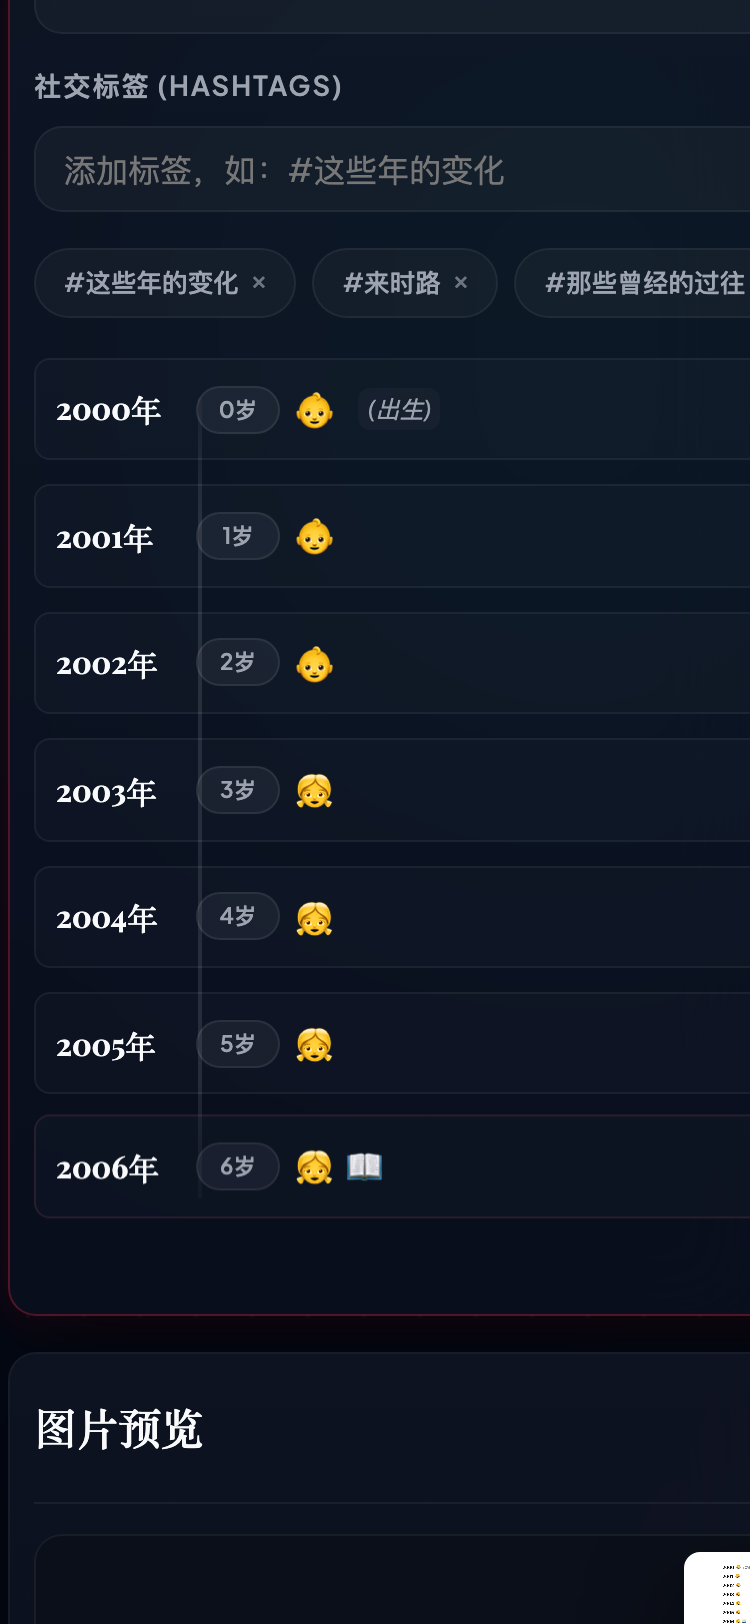
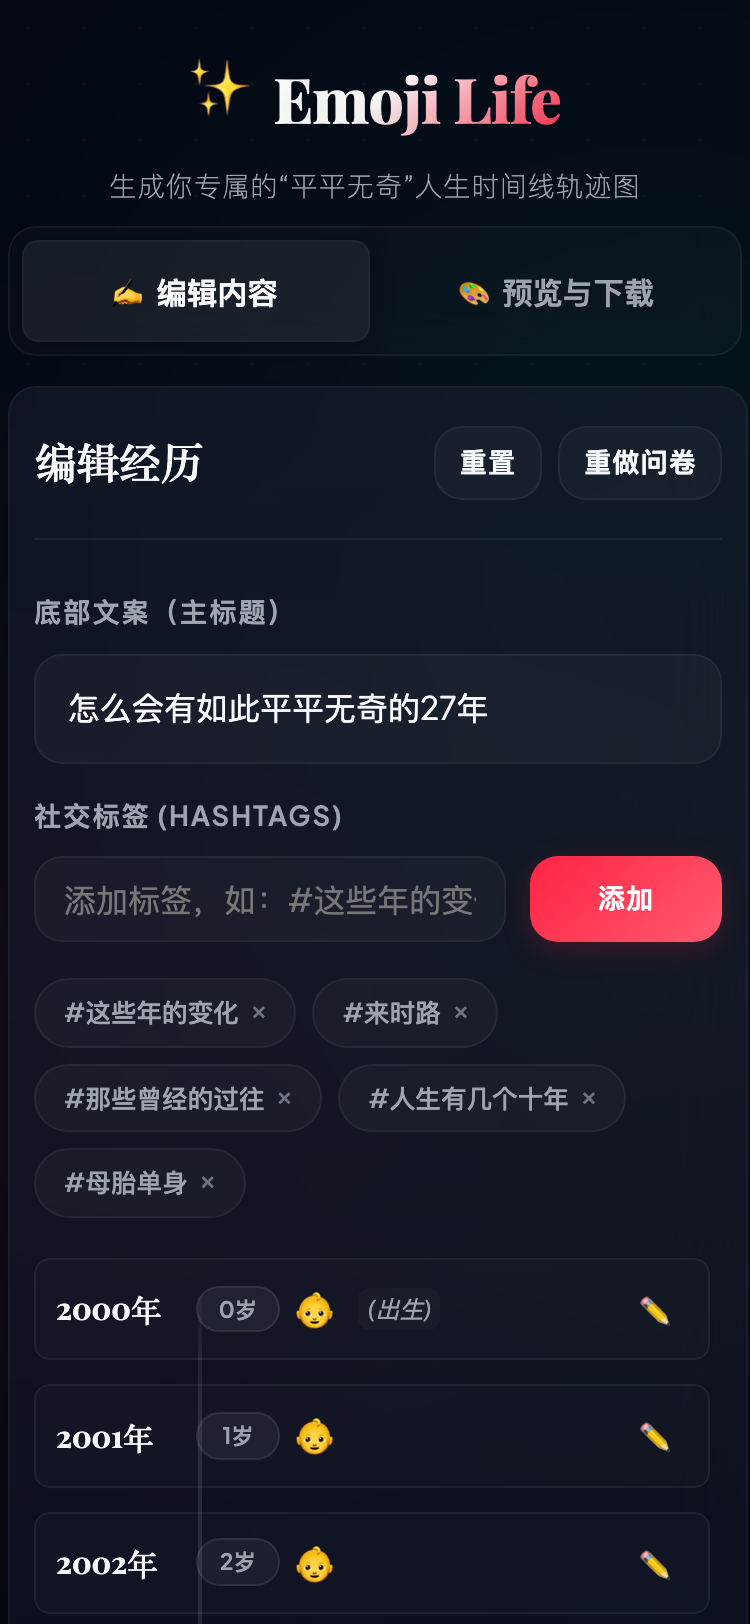
ux: implement tab switcher for mobile layout to split editing and previewing panels

diff --git a/src/App.jsx b/src/App.jsx
@@ -29,6 +29,8 @@ export default function App() {
   const [hashtags, setHashtags] = useState(DEFAULT_HASHTAGS);
   const [themeId, setThemeId] = useState('classic');
 
+  const [activeTab, setActiveTab] = useState('edit'); // 'edit' | 'preview'
+
   // Generate initial timeline based on wizard responses
   const handleWizardComplete = () => {
     const birth = parseInt(wizardData.birthYear, 10) || 1998;
@@ -141,7 +143,9 @@ export default function App() {
 
     setTimeline(newTimeline);
     setTitle(`怎么会有如此平平无奇的${newTimeline.length}年`);
+    setThemeId('classic');
     setMode('editor');
+    setActiveTab('preview'); // Land on preview to see the generated timeline immediately!
   };
 
   const handleUpdateRow = (index, updatedRow) => {
@@ -184,38 +188,58 @@ export default function App() {
           />
         </div>
       ) : (
-        <main className="app-container">
-          {/* Left panel: Timeline Editor */}
-          <div className="panel-container">
-            <TimelineEditor 
-              timeline={timeline}
-              title={title}
-              setTitle={setTitle}
-              hashtags={hashtags}
-              setHashtags={setHashtags}
-              onUpdateRow={handleUpdateRow}
-              onReset={handleReset}
-              onStartOver={handleStartOver}
-            />
+        <div className="editor-layout-wrapper" style={{ width: '100%' }}>
+          {/* Mobile Tabs Switcher Header */}
+          <div className="mobile-tabs-header">
+            <button 
+              type="button" 
+              className={`tab-btn ${activeTab === 'edit' ? 'active' : ''}`}
+              onClick={() => setActiveTab('edit')}
+            >
+              ✍️ 编辑内容
+            </button>
+            <button 
+              type="button" 
+              className={`tab-btn ${activeTab === 'preview' ? 'active' : ''}`}
+              onClick={() => setActiveTab('preview')}
+            >
+              🎨 预览与下载
+            </button>
           </div>
 
-          {/* Right panel: Canvas Preview & Theme Selection */}
-          <div className="panel-container" style={{ display: 'flex', flexDirection: 'column', gap: '20px' }}>
-            <CanvasPreview 
-              timeline={timeline}
-              title={title}
-              hashtags={hashtags}
-              themeId={themeId}
-            />
-            
-            <div className="panel">
-              <ThemeSelector 
-                activeThemeId={themeId}
-                onChangeTheme={setThemeId}
+          <main className="app-container">
+            {/* Left panel: Timeline Editor */}
+            <div className={`panel-container editor-panel ${activeTab === 'edit' ? '' : 'mobile-hidden'}`}>
+              <TimelineEditor 
+                timeline={timeline}
+                title={title}
+                setTitle={setTitle}
+                hashtags={hashtags}
+                setHashtags={setHashtags}
+                onUpdateRow={handleUpdateRow}
+                onReset={handleReset}
+                onStartOver={handleStartOver}
               />
             </div>
-          </div>
-        </main>
+
+            {/* Right panel: Canvas Preview & Theme Selection */}
+            <div className={`panel-container preview-panel ${activeTab === 'preview' ? '' : 'mobile-hidden'}`}>
+              <CanvasPreview 
+                timeline={timeline}
+                title={title}
+                hashtags={hashtags}
+                themeId={themeId}
+              />
+              
+              <div className="panel" style={{ marginTop: '20px' }}>
+                <ThemeSelector 
+                  activeThemeId={themeId}
+                  onChangeTheme={setThemeId}
+                />
+              </div>
+            </div>
+          </main>
+        </div>
       )}
 
       {/* App Footer */}

diff --git a/src/index.css b/src/index.css
@@ -909,6 +909,57 @@ body {
   letter-spacing: 0.3px;
 }
 
+/* --- Desktop vs Mobile Panel Columns --- */
+.panel-container {
+  display: flex;
+  flex-direction: column;
+  gap: 20px;
+}
+
+/* --- Mobile Tabs Header --- */
+.mobile-tabs-header {
+  display: none; /* Hide on desktop */
+  background: rgba(255, 255, 255, 0.02);
+  border: 1px solid rgba(255, 255, 255, 0.06);
+  padding: 6px;
+  border-radius: var(--radius-md);
+  margin-bottom: 5px;
+  gap: 8px;
+  backdrop-filter: blur(12px);
+  -webkit-backdrop-filter: blur(12px);
+}
+
+.tab-btn {
+  flex: 1;
+  background: none;
+  border: none;
+  color: var(--text-muted);
+  font-family: var(--font-sans);
+  font-weight: 700;
+  padding: 12px;
+  font-size: 0.95rem;
+  border-radius: var(--radius-sm);
+  cursor: pointer;
+  transition: var(--transition-smooth);
+}
+
+.tab-btn.active {
+  background: rgba(255, 255, 255, 0.06);
+  color: var(--text-main);
+  box-shadow: 0 4px 12px rgba(0, 0, 0, 0.2);
+  border: 1px solid rgba(255, 255, 255, 0.03);
+}
+
+@media (max-width: 950px) {
+  .mobile-tabs-header {
+    display: flex; /* Show on mobile/tablet */
+  }
+
+  .mobile-hidden {
+    display: none !important;
+  }
+}
+
 /* --- Responsive Overrides for Mobile Small Screens (<= 480px) --- */
 @media (max-width: 480px) {
   #root {